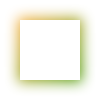
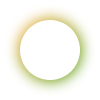
Added background image painter

diff --git a/src/test/java/org/ehony/awt/DocumentationImageProducer.java b/src/test/java/org/ehony/awt/DocumentationImageProducer.java
@@ -1,9 +1,12 @@
 package org.ehony.awt;
 
+import org.ehony.awt.ImagePopup.TestPainter;
 import org.junit.Ignore;
 
 import javax.imageio.ImageIO;
+import javax.swing.*;
 import java.awt.*;
+import java.awt.geom.Ellipse2D;
 import java.awt.image.BufferedImage;
 import java.io.*;
 import java.util.*;
@@ -16,61 +19,99 @@ public class DocumentationImageProducer
 {
 
     private static List<BufferedImage> images = new ArrayList<BufferedImage>();
-    private static Shape shape = new Rectangle(20, 20, 60, 60);
+    private static Shape shape = new Ellipse2D.Float(20, 20, 60, 60);
 
     public static void main(String... args) throws InterruptedException, IOException {
-        createImage("inset-shadow-blur-radius",
+        writeImage("inset-shadow-blur-radius",
                 new ShapePainter()
                         .background(new Color(0xfcaf3e))
                         .insetShadow(0, 0, 15, 0, new Color(0xcc000000, true)));
 
-        createImage("inset-shadow-offset", new ShapePainter()
-                .background(new Color(0xfcaf3e))
-                .insetShadow(0, -5, 10, 0, new Color(0xaa000000, true)));
-        createImage("inset-shadow-spread", new ShapePainter()
-                .background(new Color(0xfcaf3e))
-                .insetShadow(0, 0, 15, 10, new Color(0xcc000000, true)));
-        createImage("inset-shadow-paint", new ShapePainter()
-                .background(Color.WHITE)
-                .insetShadow(0, 0, 15, 0,
-                        new GradientPaint(0f, 0f, new Color(0xfcaf3e), 60, 60, new Color(0x4e9a06))));
-        createImage("drop-shadow-blur-radius", new ShapePainter()
-                .background(new Color(0xfcaf3e))
-                .dropShadow(0, 0, 10, 0, new Color(0xcc000000, true), false));
-        createImage("drop-shadow-offset", new ShapePainter()
-                .background(new Color(0xfcaf3e))
-                .dropShadow(5, 5, 10, 0, new Color(0x99000000, true), false));
-        createImage("drop-shadow-spread", new ShapePainter()
-                .background(new Color(0xfcaf3e))
-                .dropShadow(6, 12, 6, -12, new Color(0xcc000000, true), false));
-        createImage("drop-shadow-paint", new ShapePainter()
-                .background(Color.WHITE)
-                .dropShadow(-2, -2, 15, 4,
-                        new GradientPaint(0f, 0f, new Color(0xfcaf3e), 60, 60, new Color(0x4e9a06)),
-                        false));
+        writeImage("inset-shadow-offset",
+                new ShapePainter()
+                        .background(new Color(0xfcaf3e))
+                        .insetShadow(-2, -2, 0, 0, new Color(0xaa000000, true)));
+        writeImage("inset-shadow-spread",
+                new ShapePainter()
+                        .background(new Color(0xfcaf3e))
+                        .insetShadow(0, 0, 15, -15, new Color(0x55000000, true)));
+        writeImage("inset-shadow-paint",
+                new ShapePainter()
+                        .background(Color.WHITE)
+                        .insetShadow(0, 0, 15, 0,
+                                new GradientPaint(
+                                        0f, 0f, new Color(0xfcaf3e),
+                                        60, 60, new Color(0x4e9a06))));
+        writeImage("drop-shadow-blur-radius",
+                new ShapePainter()
+                        .background(new Color(0xfcaf3e))
+                        .dropShadow(0, 0, 10, 0, new Color(0xcc000000, true), false));
+        writeImage("drop-shadow-offset",
+                new ShapePainter()
+                        .background(new Color(0xfcaf3e))
+                        .dropShadow(5, 5, 10, 0, new Color(0x99000000, true), false));
+        writeImage("drop-shadow-spread",
+                new ShapePainter()
+                        .background(new Color(0xfcaf3e))
+                        .dropShadow(6, 12, 6, -12, new Color(0xcc000000, true), false));
+        writeImage("drop-shadow-paint",
+                new ShapePainter()
+                        .background(Color.WHITE)
+                        .dropShadow(-2, -2, 15, 4,
+                                new GradientPaint(
+                                        0f, 0f, new Color(0xfcaf3e),
+                                        60, 60, new Color(0x4e9a06)),
+                                false));
         {
+
+            Rectangle r = shape.getBounds();
+            BufferedImage texture = new BufferedImage(r.width, r.height, TYPE_INT_ARGB);
+            Graphics2D tg = createGraphics(texture);
+            int step = 5;
+            for (int i = 0; i < r.width / step; i++) {
+                for (int j = 0; j < r.height / step; j++) {
+                    if ((i + j) % 2 == 0) {
+                        tg.setPaint(new Color(0x33000000, true));
+                        tg.fill(new Rectangle(i * step, j * step, step, step));
+                    }
+                }
+            }
+
             BufferedImage image = createImage();
             Graphics2D g = createGraphics(image);
             new ShapePainter()
                     .dropShadow(0, 0, 10, 0, new Color(0xee000000, true), true)
+                    .background(texture)
                     .paint(shape, g);
-
-            int step = 5;
-            for (int i = 0; i < 60 / step; i++) {
-                for (int j = 0; j < 60 / step; j++) {
-                    if ((i + j) % 2 == 0) {
-                        g.setPaint(new Color(0x33000000, true));
-                        g.fill(new Rectangle(20 + i * step, 20 + j * step, step, step));
-                    }
-                }
-            }
             images.add(image);
             ImageIO.write(image, "png", new File("docs/drop-shadow-exclude.png"));
             g.dispose();
         }
+        showImages(images);
     }
 
-    public static void createImage(String name, ShapePainter painter) throws IOException {
+    public static void showImages(final List<BufferedImage> images) throws InterruptedException {
+        ImagePopup.showFrame(400, 300, new TestPainter()
+        {
+            @Override
+            public void paint(Graphics2D canvas, JComponent component) {
+                BufferedImage image = images.get(0);
+                int count = component.getWidth() / image.getWidth();
+                int top = 0;
+                int left = 0;
+                for (int i = 0; i < images.size(); i++) {
+                    if (i != 0 && i % count == 0) {
+                        top += image.getHeight();
+                        left = 0;
+                    }
+                    canvas.drawImage(images.get(i), left, top, null);
+                    left += image.getWidth();
+                }
+            }
+        });
+    }
+
+    public static void writeImage(String name, ShapePainter painter) throws IOException {
         BufferedImage image = createImage();
         Graphics2D g = createGraphics(image);
         painter.paint(shape, g);

diff --git a/src/test/java/org/ehony/awt/ImagePopup.java b/src/test/java/org/ehony/awt/ImagePopup.java
@@ -23,7 +23,7 @@ public class ImagePopup
 
     public interface TestPainter {
 
-        void paint(Graphics2D canvas);
+        void paint(Graphics2D canvas, JComponent component);
     }
 
     public static void showFrame(int width, int height, final TestPainter painter) throws InterruptedException {
@@ -35,7 +35,7 @@ public class ImagePopup
             @Override
             protected void paintComponent(Graphics g) {
                 super.paintComponent(g);
-                painter.paint((Graphics2D) g);
+                painter.paint((Graphics2D) g, this);
             }
         };
         panel.setPreferredSize(new Dimension(width, height));
@@ -54,7 +54,7 @@ public class ImagePopup
         showFrame(image.getWidth() / f, image.getHeight() / f, new TestPainter()
         {
             @Override
-            public void paint(Graphics2D canvas) {
+            public void paint(Graphics2D canvas, JComponent component) {
                 canvas.setTransform(AffineTransform.getScaleInstance(1f / f, 1f / f));
                 canvas.drawImage(image, 0, 0, null);
             }

diff --git a/src/main/java/org/ehony/awt/painter/ImagePainter.java b/src/main/java/org/ehony/awt/painter/ImagePainter.java
@@ -9,6 +9,7 @@ package org.ehony.awt.painter;
 import org.ehony.awt.api.Painter;
 
 import java.awt.*;
+import java.awt.geom.Rectangle2D;
 import java.awt.image.BufferedImage;
 
 public class ImagePainter implements Painter
@@ -44,7 +45,8 @@ public class ImagePainter implements Painter
     public void paint(Shape shape, Graphics2D g, int x, int y) {
         BufferedImage texture = toBufferedImage(image);
         g.translate(x, y);
-        g.setPaint(new TexturePaint(texture, new Rectangle(x, y, texture.getWidth(), texture.getHeight())));
+        Rectangle2D bounds = shape.getBounds2D();
+        g.setPaint(new TexturePaint(texture, new Rectangle2D.Double(bounds.getX() + x, bounds.getY() + y, texture.getWidth(), texture.getHeight())));
         g.fill(shape);
         g.translate(-x, -y);
     }

diff --git a/src/test/java/org/ehony/awt/ShapePainterTest.java b/src/test/java/org/ehony/awt/ShapePainterTest.java
@@ -9,6 +9,7 @@ package org.ehony.awt;
 import org.ehony.awt.ImagePopup.TestPainter;
 import org.junit.Test;
 
+import javax.swing.*;
 import java.awt.*;
 
 public class ShapePainterTest
@@ -26,7 +27,7 @@ public class ShapePainterTest
         ImagePopup.showFrame(600, 200, new TestPainter()
         {
             @Override
-            public void paint(Graphics2D canvas) {
+            public void paint(Graphics2D canvas, JComponent component) {
                 canvas.setRenderingHint(RenderingHints.KEY_ANTIALIASING, RenderingHints.VALUE_ANTIALIAS_ON);
                 painter.paint("Hello world!", canvas.getFont().deriveFont(60f), canvas, 50, 100);
             }

diff --git a/src/main/java/org/ehony/awt/ShapePainter.java b/src/main/java/org/ehony/awt/ShapePainter.java
@@ -75,6 +75,14 @@ public class ShapePainter<Type extends ShapePainter> extends CompositePainter
     }
 
     @SuppressWarnings("unchecked")
+    public Type background(Image image) {
+        ImagePainter painter = new ImagePainter();
+        painter.setImage(image);
+        layer(-100, painter);
+        return (Type) this;
+    }
+
+    @SuppressWarnings("unchecked")
     public Type insetShadow(float dx, float dy, float radius, float spread, Paint paint) {
         InsetShadowPainter painter = new InsetShadowPainter();
         painter.setPaint(paint);
